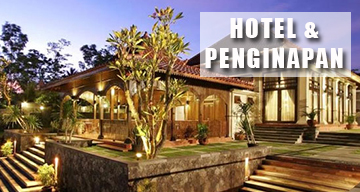
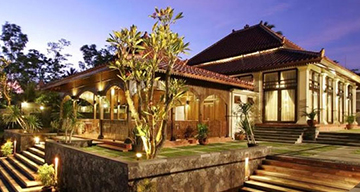
hover menu
tambahin hover di menu image

Changed region(s): [[0.55, 0.0625, 0.9778, 0.4062]]

diff --git a/index.html b/index.html
@@ -108,22 +108,24 @@
   <div class="row">
     <div class="col-sm-4">
     	<a href="wisata.html">
-      	<img src="image/kolom1.jpg" class="img-responsive" style="width:100%" alt="wisata jogja">
+      	<img src="image/kolom1.jpg" class="img-responsive" onmouseover="this.src='image/hover-kolom1.jpg'" onmouseout="this.src='image/kolom1.jpg'" />
       	</a>
       <p>Puluhan Obyek Wisata Menarik di Kota Jogja</p>
     </div>
     <div class="col-sm-4"> 
     	<a href="hotel.html">
-    	<img src="image/kolom2.jpg" class="img-responsive" style="width:100%" alt="hotel jogja">
+    	<img src="image/kolom2.jpg" class="img-responsive" onmouseover="this.src='image/hover-kolom2.jpg'" onmouseout="this.src='image/kolom2.jpg'" />
     	</a>
       <p>Banyaknya Pilihan Penginapan di Kota Jogja</p>    
     </div>
     <div class="col-sm-4">
     	<a href="kuliner.html">
-    	<img src="image/kolom3.jpg" class="img-responsive" style="width:100%" alt="kuliner jogja">
+    	<img src="image/kolom3.jpg" class="img-responsive" onmouseover="this.src='image/hover-kolom3.jpg'" onmouseout="this.src='image/kolom3.jpg'" />
     	</a>
       <p>Ragam Jenis Kuliner Khas Yang Terdapat di Kota Jogja</p>
     </div>
+    
+    
     <div class="col-sm-4">
       <div class="well">
        <p>Some text..</p>
